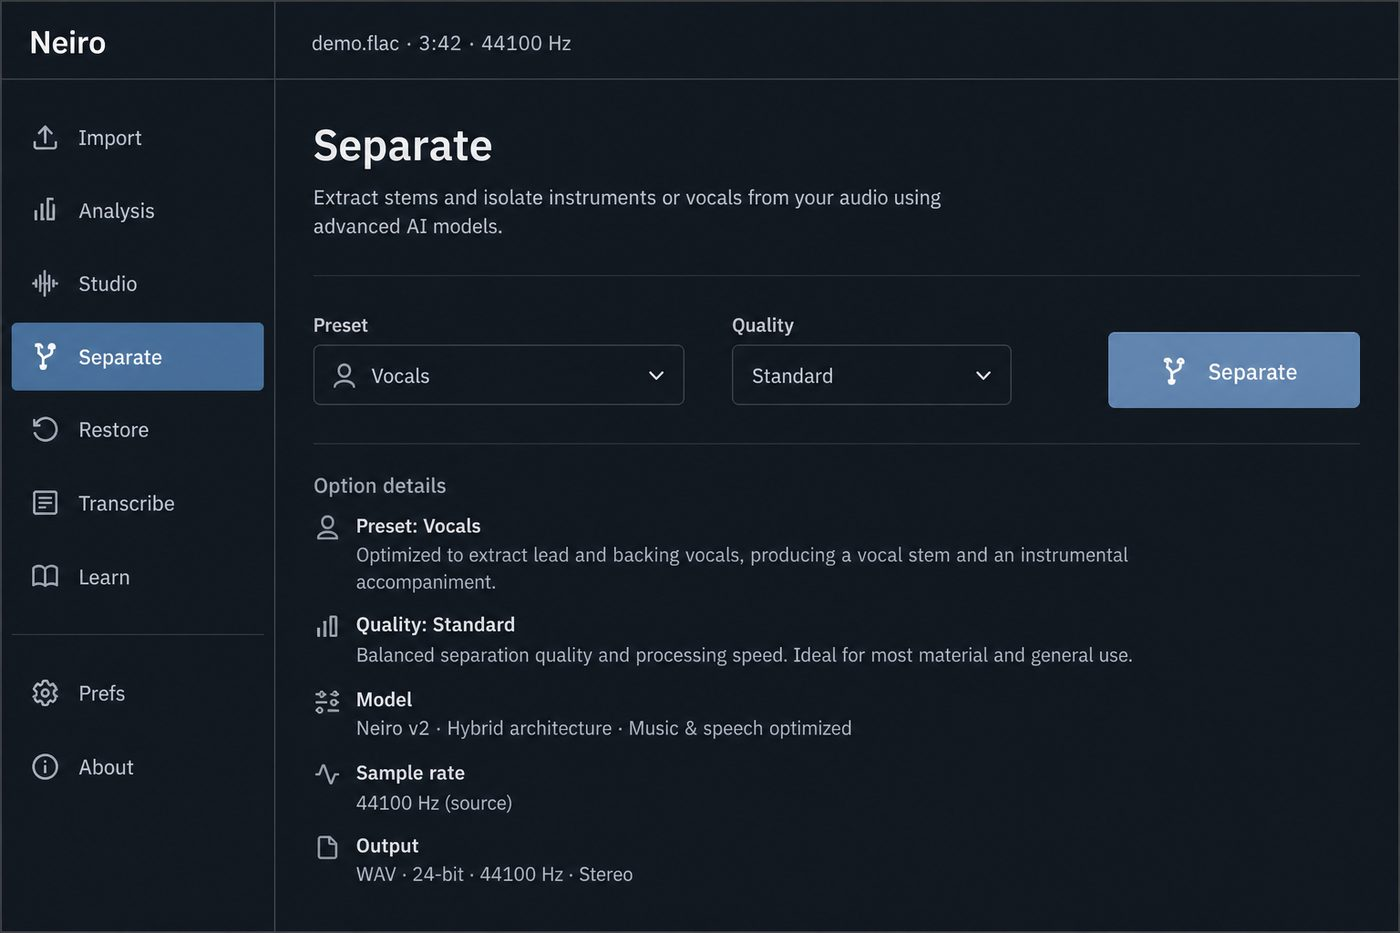
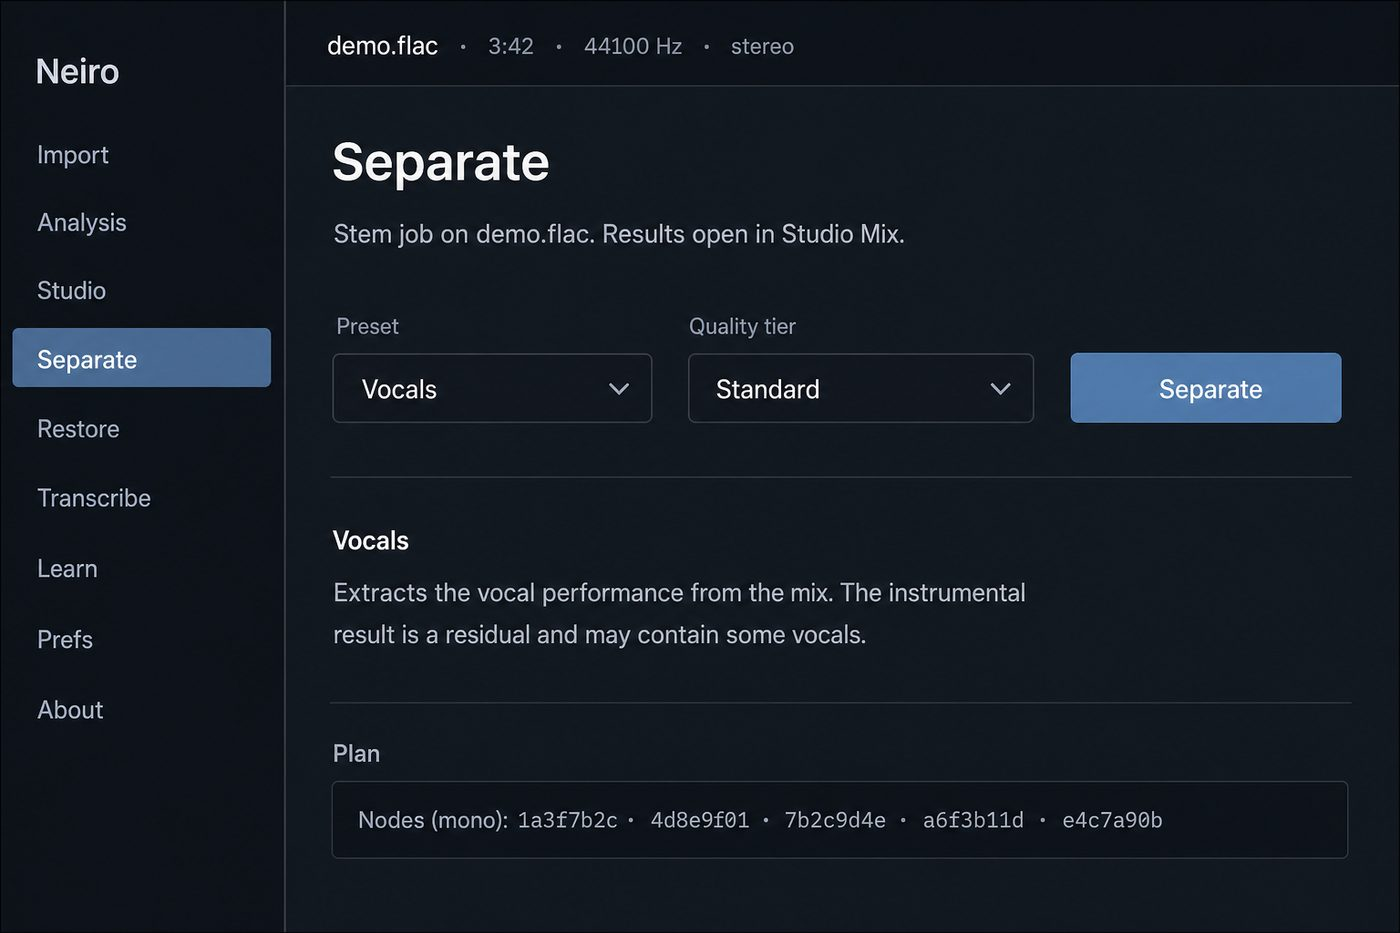
Clarify README screenshot captions and refresh Separate mock
Label UI shots as illustrative and replace the Separate image with
copy closer to the shipping worksuite.

diff --git a/README.md b/README.md
@@ -39,17 +39,17 @@ One engine, two doors: **Tauri desktop** or **`neiro ui` in the browser**. Same 
 
 <p align="center">
   <img src="docs/media/shell-separate.jpg" alt="Neiro Separate module — presets, quality tier, and plan strip" width="100%"/>
-  <br/><sub>Separate — labeled presets, quality tiers, honest stage progress</sub>
+  <br/><sub>Separate — presets, quality tiers, honest stage progress <em>(illustrative mock in the shipping design language)</em></sub>
 </p>
 
 <p align="center">
   <img src="docs/media/shell-studio.jpg" alt="Neiro Studio multi-track timeline with Mix drawer" width="100%"/>
-  <br/><sub>Studio — multi-track timeline, Mix drawer, non-destructive edits</sub>
+  <br/><sub>Studio — multi-track timeline + Mix drawer <em>(illustrative mock)</em></sub>
 </p>
 
 <p align="center">
   <img src="docs/media/shell-transcribe.jpg" alt="Neiro Transcribe piano-roll and MIDI export" width="100%"/>
-  <br/><sub>Transcribe — piano roll, MIDI / MusicXML, Practice panel</sub>
+  <br/><sub>Transcribe — piano roll + MIDI export <em>(illustrative mock)</em></sub>
 </p>
 
 **Keyboard** — modules `1`–`6` / `8`–`9`, Mix `7`, command palette `Ctrl/⌘K`, collapse rail `Ctrl/⌘B`.